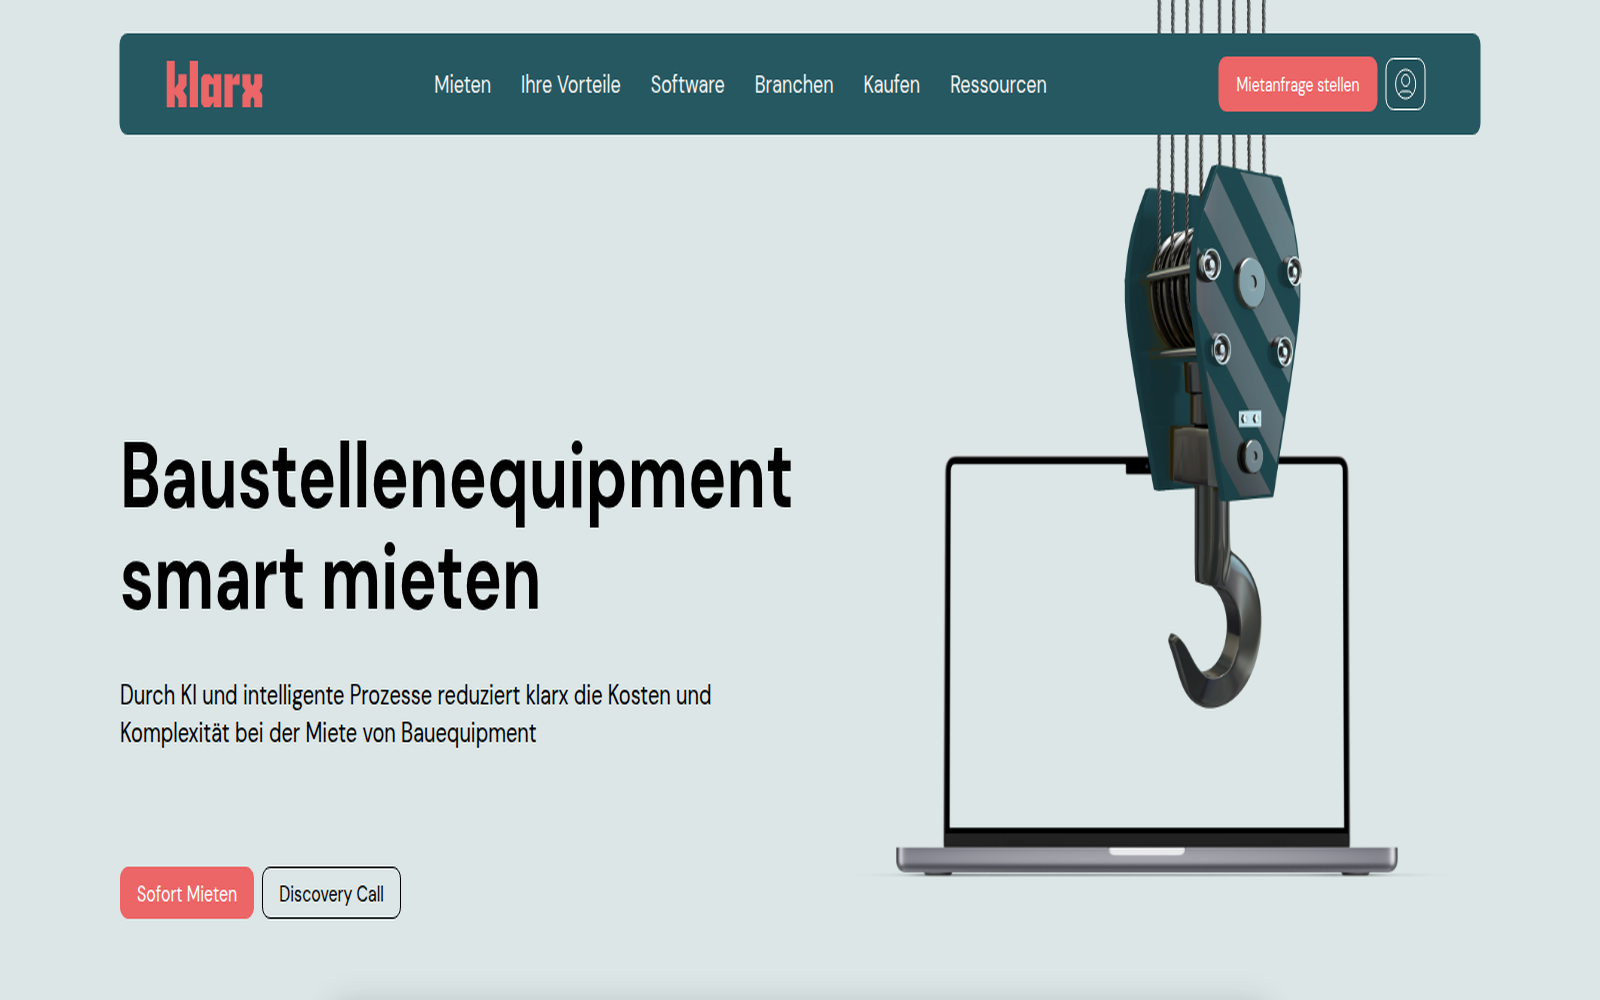
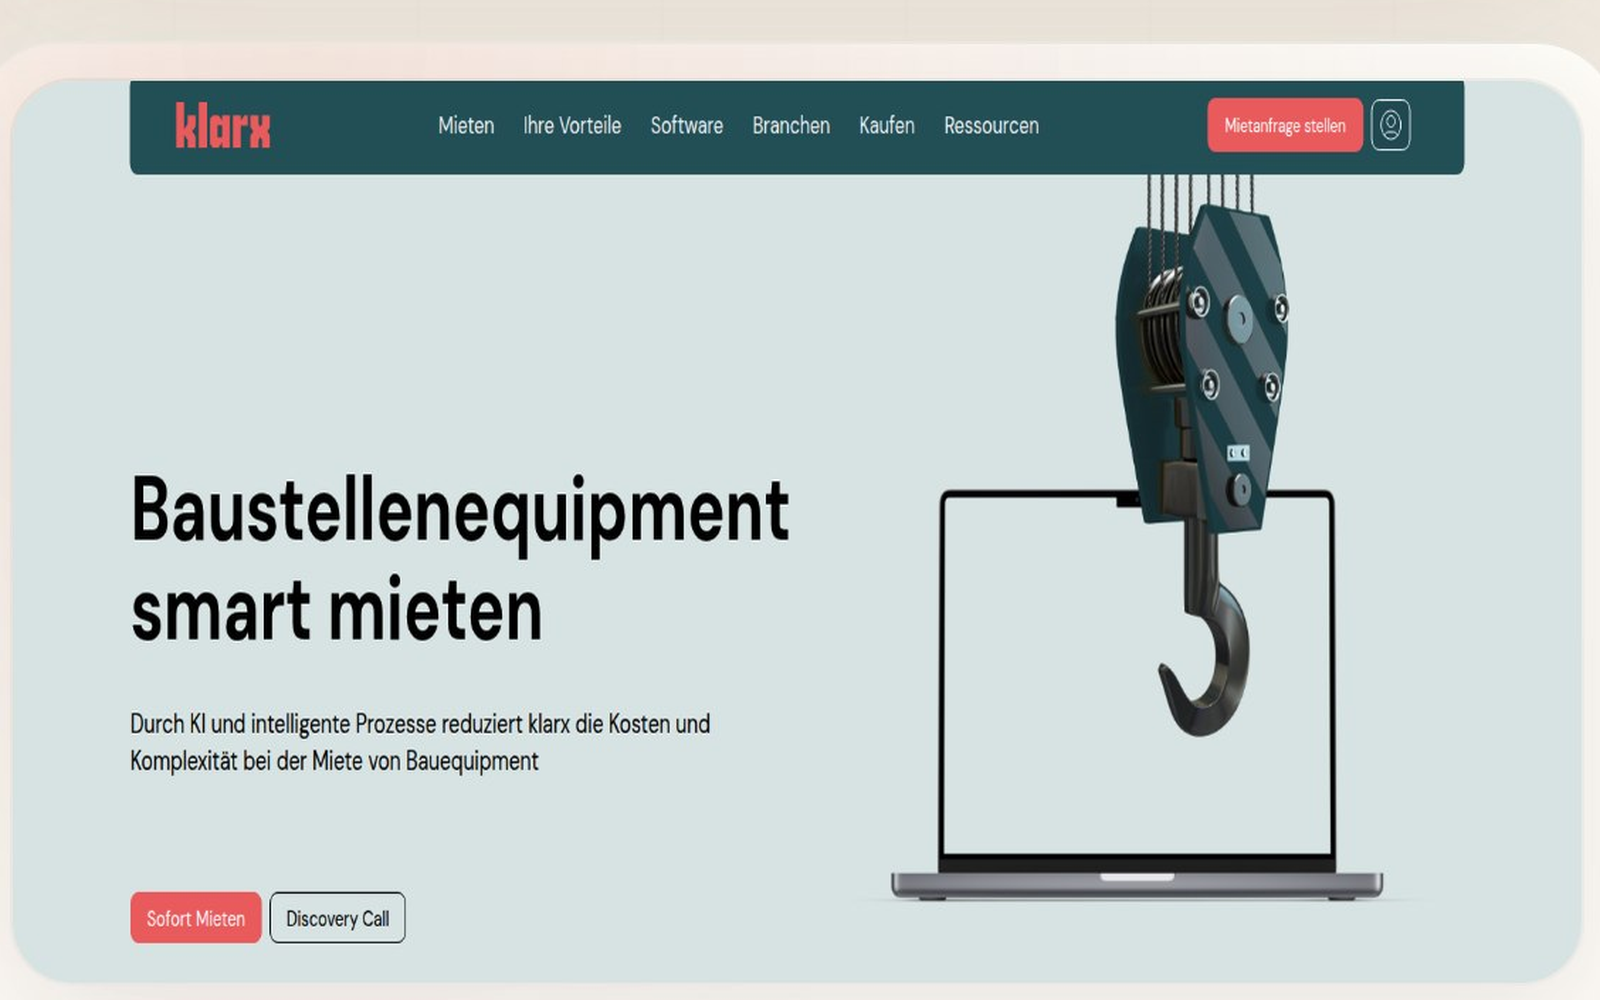
Fix portfolio image framing

diff --git a/assets/main.scss b/assets/main.scss
@@ -472,6 +472,11 @@ main,
   box-shadow: 0 16px 46px rgba(71, 48, 33, 0.10);
 }
 
+.project-image-wrap img[src$="bib-tuck.jpg"],
+.project-image-wrap img[src$="klarx.png"] {
+  object-position: center top;
+}
+
 .project-card-featured .project-image-wrap img {
   height: 380px;
 }